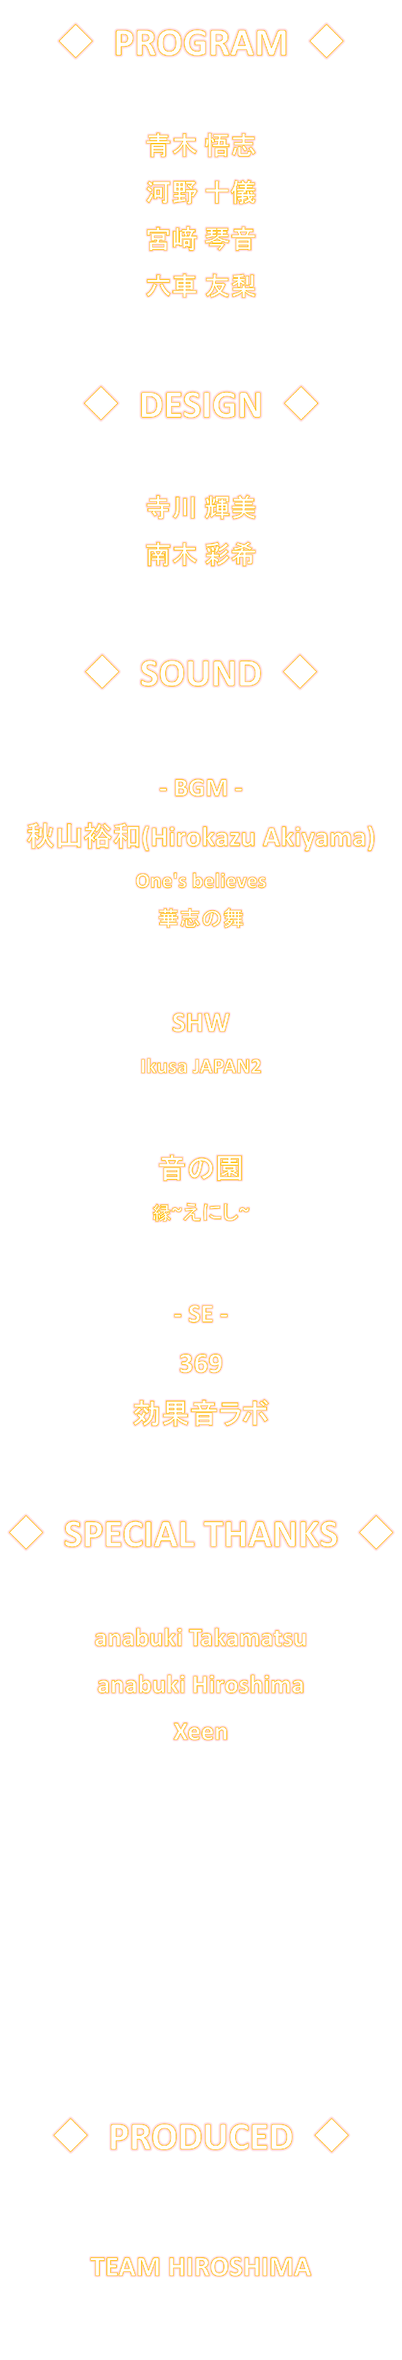
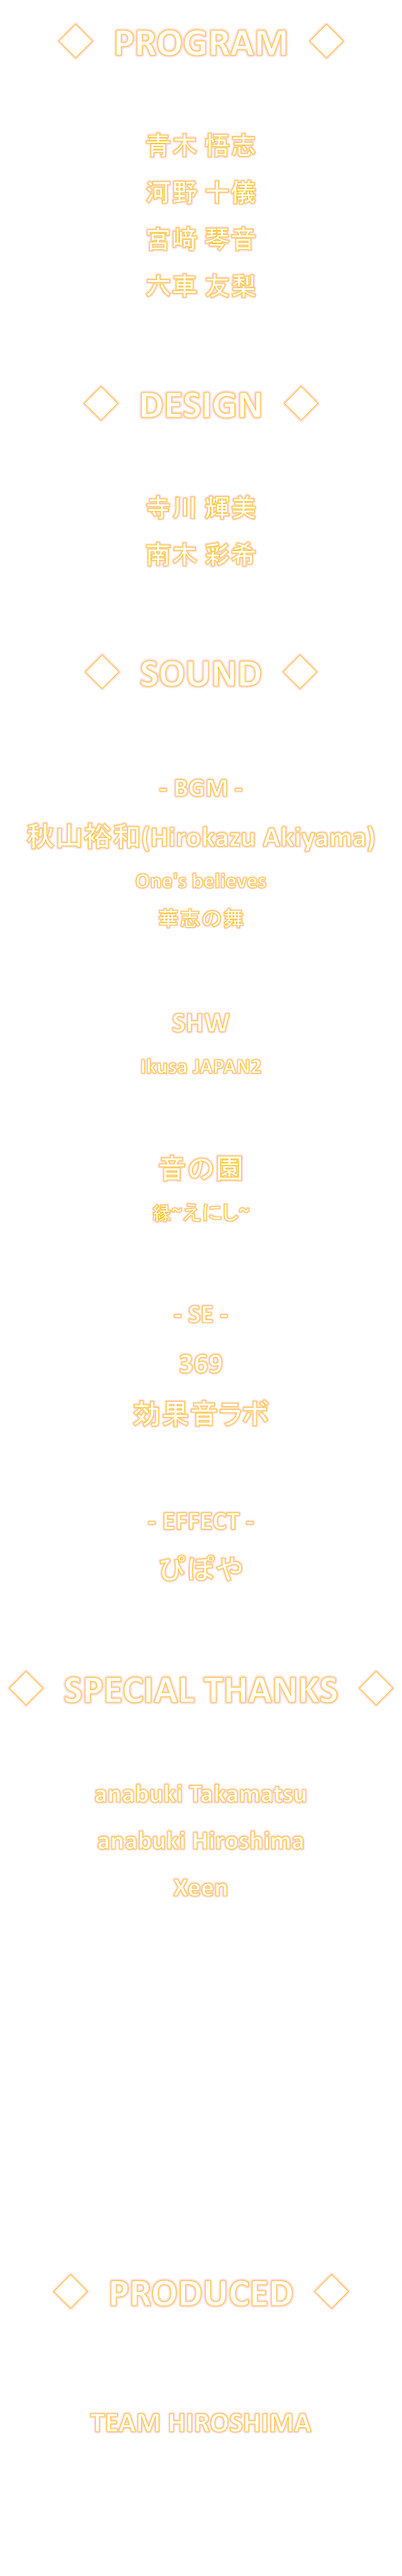
エンディング、画像修正

diff --git a/Hiroshima/MyTaskGame/GameProject/Game/CObjectBase/CEndeing/CEndeing.cpp b/Hiroshima/MyTaskGame/GameProject/Game/CObjectBase/CEndeing/CEndeing.cpp
@@ -14,12 +14,12 @@ CEnding::CEnding() :CObjectBase(0, eU_Back, eD_UI)
 CEnding::~CEnding()
 {
 	SOUND("BGM_Ending")->Stop();
-	NEW_SCENE(eTitle)
+	NEW_SCENE(eGameStart)
 }
 
 void CEnding::Update()
 {
-	if (m_pos3D.y - SCREEN_HEIGHT / 1.2 + ENDEING_SIZ_Y / 2 > 0)
+	if (m_pos3D.y - SCREEN_HEIGHT / 1.1 + ENDEING_SIZ_Y / 2 > 0)
 		m_pos3D.y--;
 	else
 		m_color.w -= 0.01;

diff --git a/Hiroshima/MyTaskGame/GameProject/Game/CObjectBase/CEndeing/CEndeing.h b/Hiroshima/MyTaskGame/GameProject/Game/CObjectBase/CEndeing/CEndeing.h
@@ -4,7 +4,7 @@
 #include "../CObjectBase.h"
 
 #define ENDEING_SIZ_X 1000
-#define ENDEING_SIZ_Y 5859
+#define ENDEING_SIZ_Y 6394
 
 /*
 
